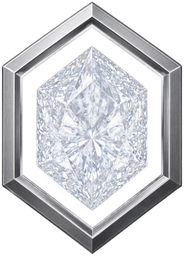
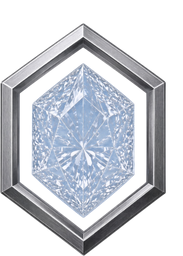
Replace the diamond badge and keep five prospect slots

diff --git a/league-site/src/components/DraftBoard.tsx b/league-site/src/components/DraftBoard.tsx
@@ -11,6 +11,7 @@ const ROW_H = 112;
 const ROUND_W = 156;
 const SUMMARY_W = 96;
 const SUMMARY_H = 64;
+const PROSPECT_SLOTS = 5;
 
 export type DraftProspect = {
   id: number;
@@ -37,10 +38,13 @@ function boardRows() {
 }
 
 function shown(value: string) {
-  return value || "\u2014";
+  return value || "-";
 }
 
 function ProspectTable({ players }: { players: DraftProspect[] }) {
+  const rows: Array<DraftProspect | null> = players.slice(0, PROSPECT_SLOTS);
+  while (rows.length < PROSPECT_SLOTS) rows.push(null);
+
   return (
     <table className="w-full border-collapse text-sm">
       <thead>
@@ -55,22 +59,22 @@ function ProspectTable({ players }: { players: DraftProspect[] }) {
         </tr>
       </thead>
       <tbody>
-        {players.map(player => {
-          const rank = abaRank(player.rating);
+        {rows.map((player, index) => {
+          const rank = player ? abaRank(player.rating) : null;
           return (
-            <tr key={player.id}>
-              <td className="border-b border-neutral-800 px-2 py-2 text-neutral-200">{shown(player.position)}</td>
-              <td className="border-b border-neutral-800 px-2 py-2 text-white">{player.name}</td>
+            <tr key={player?.id ?? `empty-${index}`}>
+              <td className="border-b border-neutral-800 px-2 py-2 text-neutral-200">{player ? shown(player.position) : "-"}</td>
+              <td className="border-b border-neutral-800 px-2 py-2 text-white">{player ? player.name : "-"}</td>
               <td className="border-b border-neutral-800 px-2 py-2 text-white">
                 <span className="inline-flex items-center gap-1.5">
-                  <span>{shown(player.rating)}</span>
+                  <span>{player ? shown(player.rating) : "-"}</span>
                   {rank && <img src={rank.src} alt="" title={rank.name} className="h-5 w-auto object-contain" />}
                 </span>
               </td>
-              <td className="border-b border-neutral-800 px-2 py-2 text-neutral-200">{shown(player.height)}</td>
-              <td className="border-b border-neutral-800 px-2 py-2 text-neutral-200">{shown(player.weight)}</td>
-              <td className="border-b border-neutral-800 px-2 py-2 text-neutral-200">{shown(player.fg)}</td>
-              <td className="border-b border-neutral-800 px-2 py-2 text-neutral-200">{shown(player.threeP)}</td>
+              <td className="border-b border-neutral-800 px-2 py-2 text-neutral-200">{player ? shown(player.height) : "-"}</td>
+              <td className="border-b border-neutral-800 px-2 py-2 text-neutral-200">{player ? shown(player.weight) : "-"}</td>
+              <td className="border-b border-neutral-800 px-2 py-2 text-neutral-200">{player ? shown(player.fg) : "-"}</td>
+              <td className="border-b border-neutral-800 px-2 py-2 text-neutral-200">{player ? shown(player.threeP) : "-"}</td>
             </tr>
           );
         })}
@@ -164,21 +168,17 @@ export default function DraftBoard({
               View all prospects
             </Link>
           </div>
-          {sections.length === 0 ? (
-            <p className="text-neutral-400">No prospects yet.</p>
-          ) : (
-            <div className="space-y-8">
-              {sections.map(section => (
-                <div key={section.name}>
-                  <div className="mb-2 flex items-center gap-2">
-                    <img src={section.src} alt="" className="h-6 w-auto object-contain" />
-                    <h4 className="text-sm font-bold tracking-wide text-white">{section.name}</h4>
-                  </div>
-                  <ProspectTable players={section.players} />
+          <div className="space-y-8">
+            {sections.map(section => (
+              <div key={section.name}>
+                <div className="mb-2 flex items-center gap-2">
+                  <img src={section.src} alt="" className="h-6 w-auto object-contain" />
+                  <h4 className="text-sm font-bold tracking-wide text-white">{section.name}</h4>
                 </div>
-              ))}
-            </div>
-          )}
+                <ProspectTable players={section.players} />
+              </div>
+            ))}
+          </div>
         </section>
         <section className="shrink-0">
           <h3 className="label-glow mb-6 text-center text-3xl font-bold tracking-wide text-white">DRAFT SUMMARY</h3>

diff --git a/league-site/src/app/draft/room/page.tsx b/league-site/src/app/draft/room/page.tsx
@@ -63,7 +63,7 @@ export default async function DraftRoomPage() {
         fg: player.fg || "",
         threeP: player.three_p || "",
       })),
-  })).filter(section => section.players.length > 0);
+  }));
 
   return <DraftBoard teams={teams} sections={sections} />;
 }
